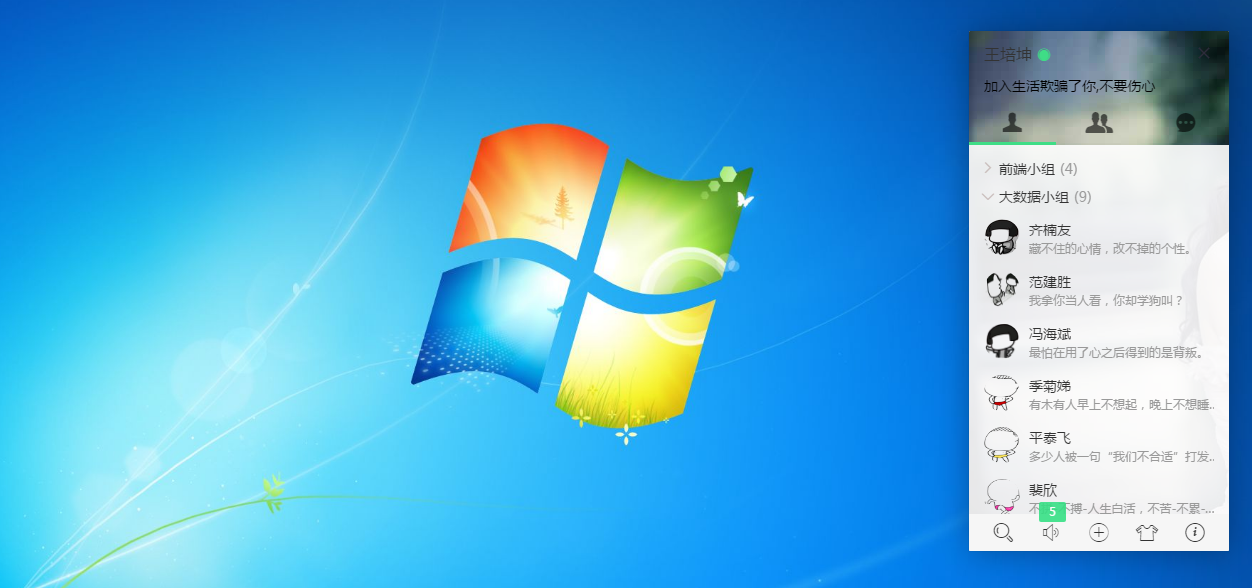
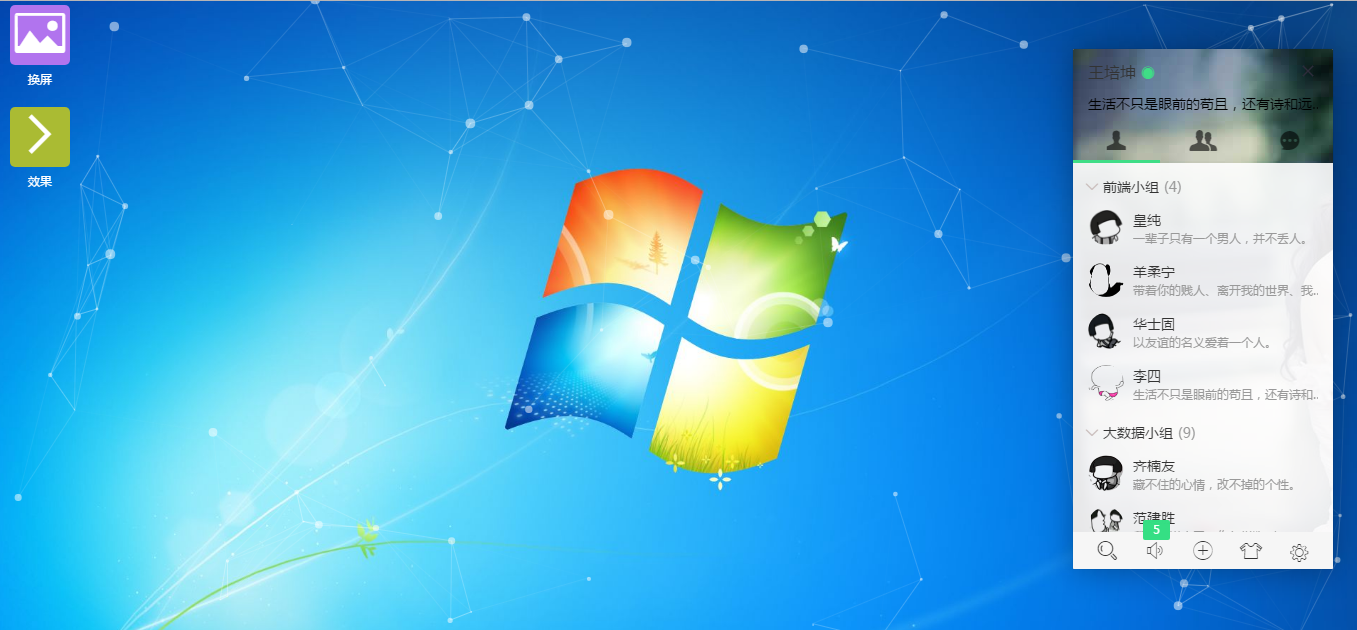
add the chat log

diff --git a/README.md b/README.md
@@ -24,13 +24,27 @@
 
 ### 界面
 
+系统主页
+
 ![](https://github.com/scalad/LayIM/blob/master/doc/image/page_index.png)
+
+发送文字、表情和图片
 
 ![](https://github.com/scalad/LayIM/blob/master/doc/image/word_emoji_image_send.png)
 
+发送文件
+
 ![](https://github.com/scalad/LayIM/blob/master/doc/image/file_send.png)
 
+后去群成员
+
 ![](https://github.com/scalad/LayIM/blob/master/doc/image/group_members.png)
+
+聊天记录、分页
+
+![](https://github.com/scalad/LayIM/blob/master/doc/image/chatLog.png)
+
+右键菜单
 
 ![](https://github.com/scalad/LayIM/blob/master/doc/image/right_key.png)
 
